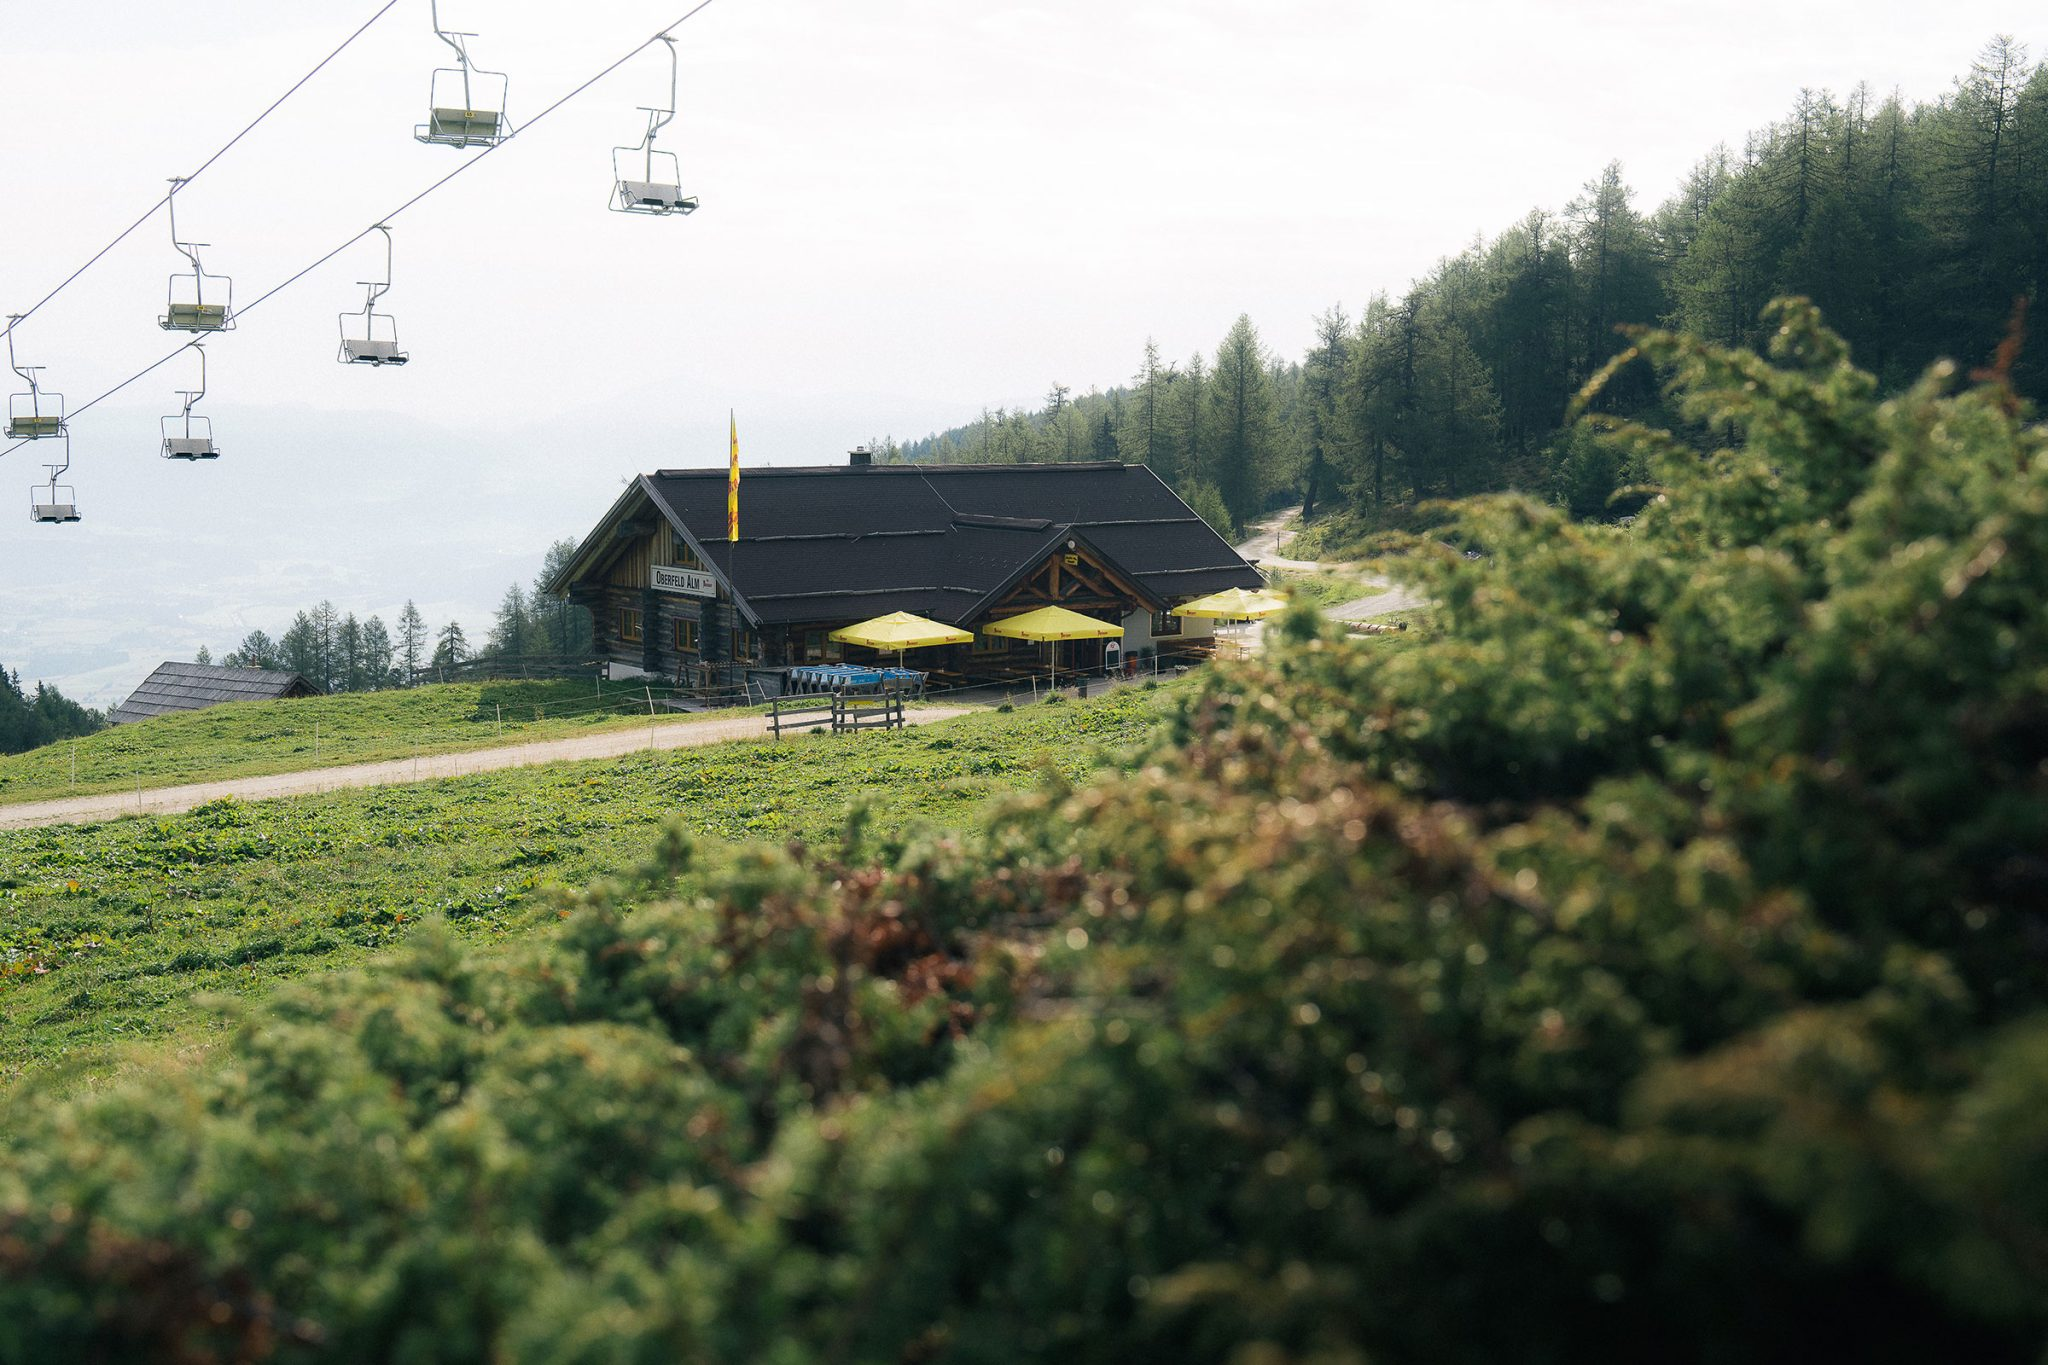
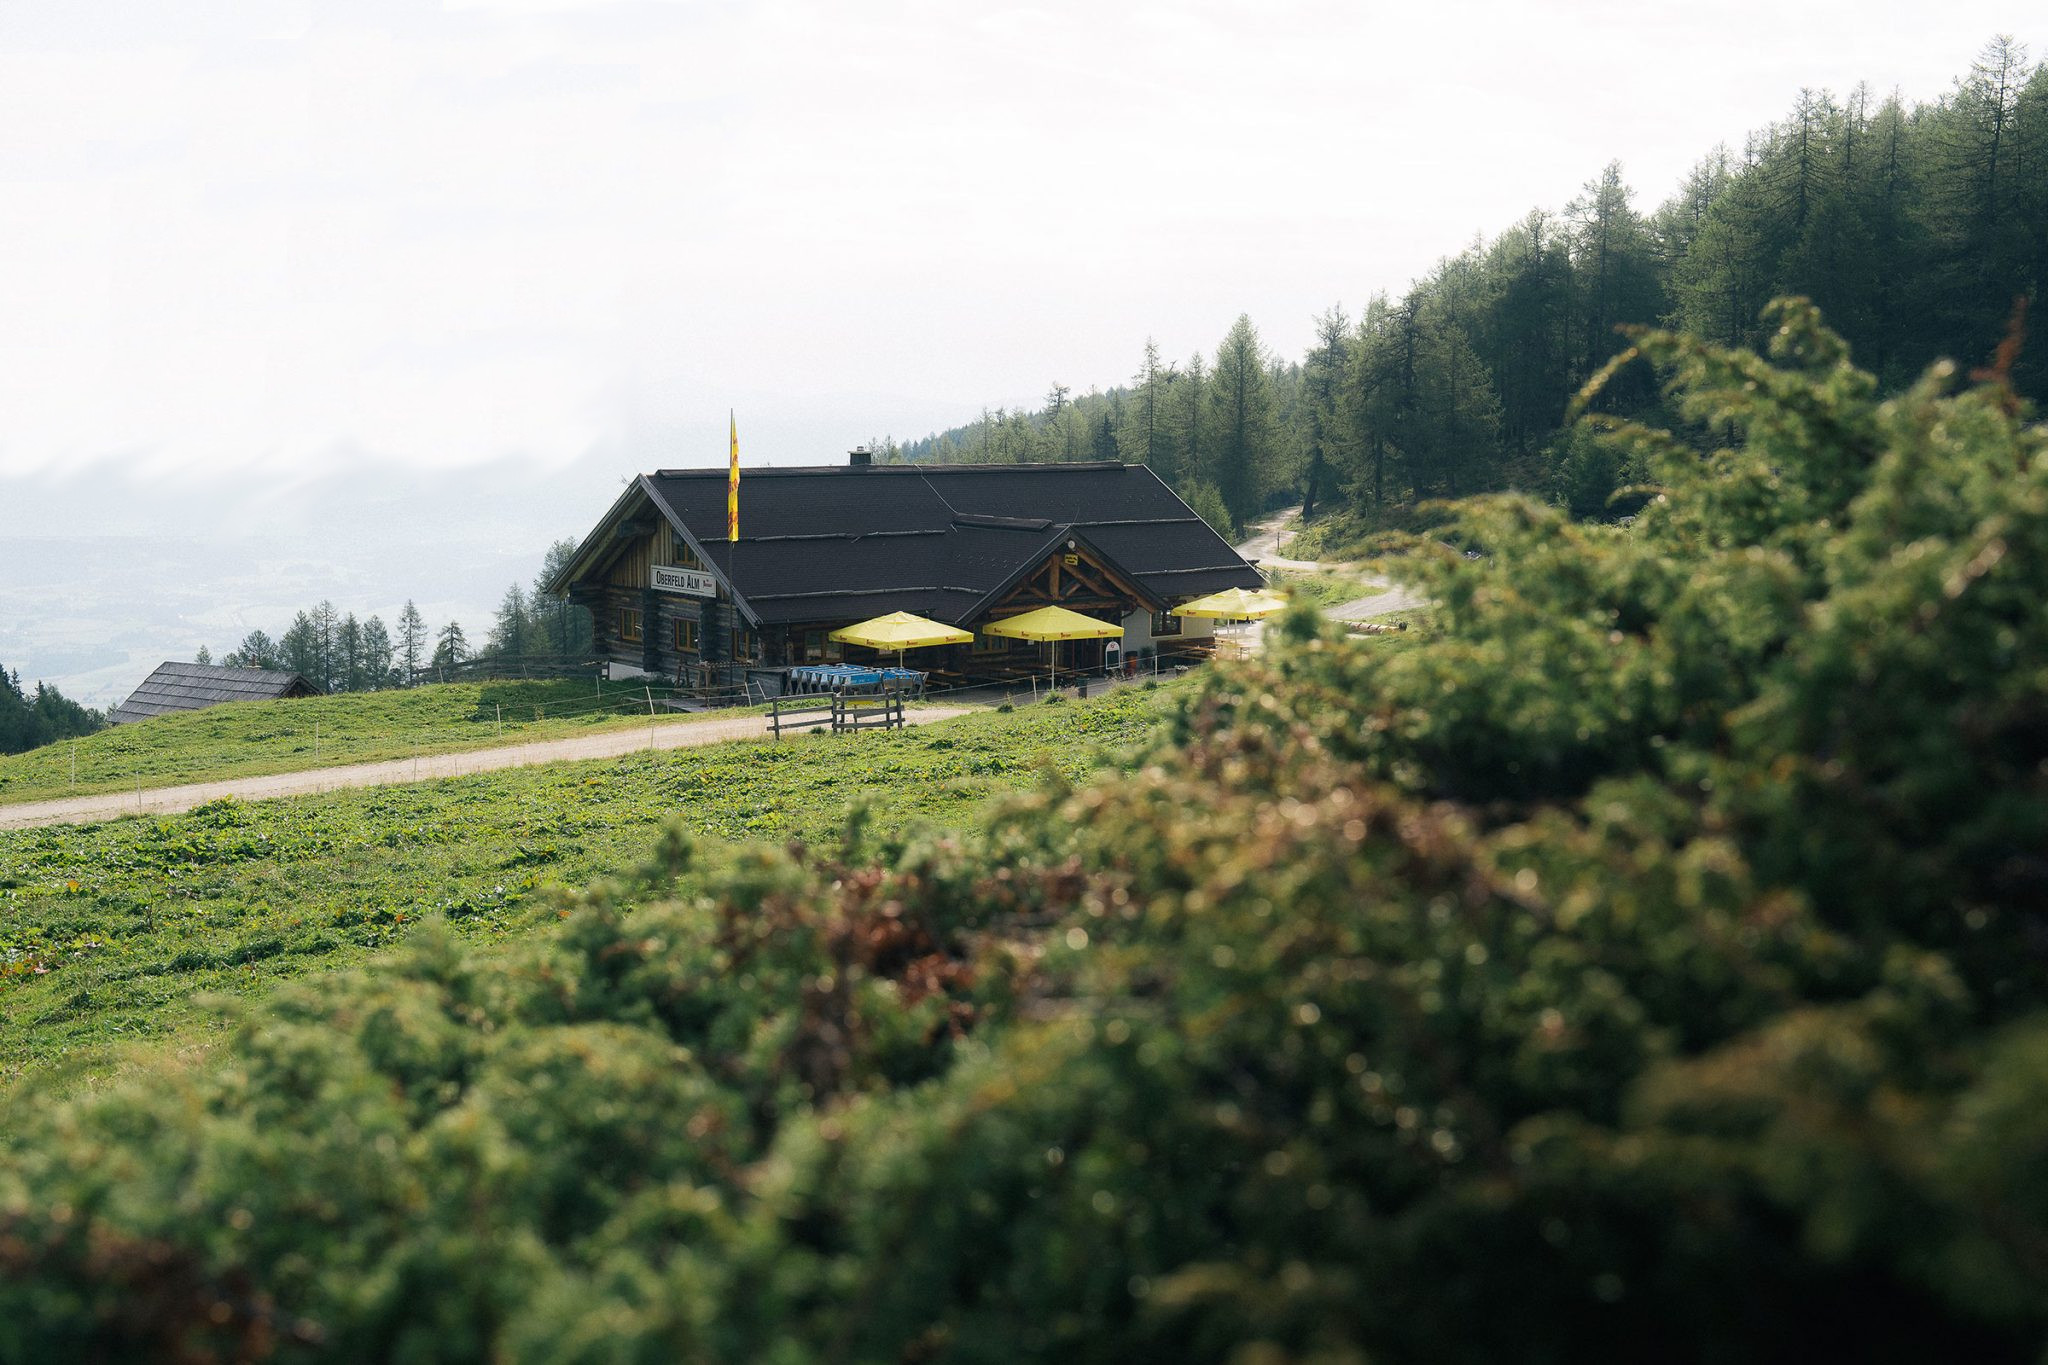
Oberfeldalm picture changed.

diff --git a/index.html b/index.html
@@ -179,7 +179,7 @@
 
   <!-- Image Divider -->
   <div class="image-divider">
-    <div class="image-divider-bg" style="background-image:url('images/06_oberfeldalm.jpg')"></div>
+    <div class="image-divider-bg" style="background-image:url('images/061_oberfeldalm.jpg')"></div>
     <div class="image-divider-overlay"></div>
     <div class="image-divider-text">
       <p class="script-text">Oberfeldalm am Grosseck/Speiereck – hier wird gefeiert!</p>